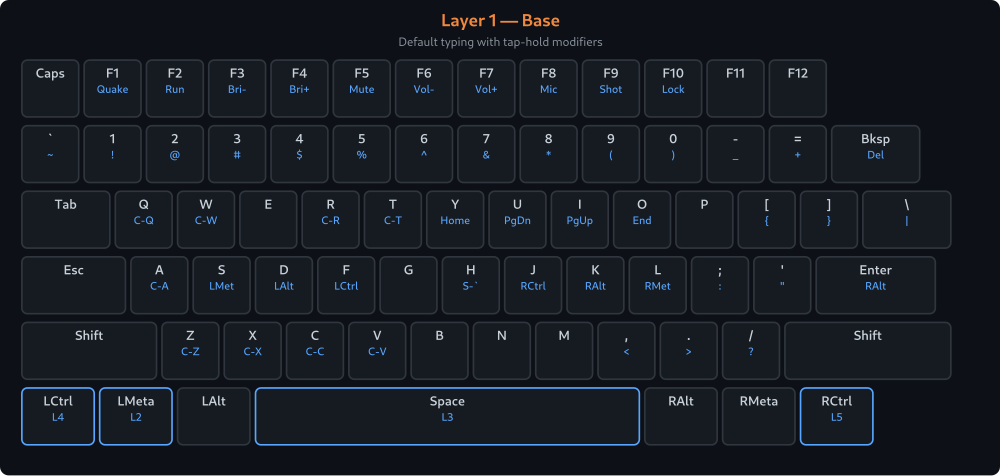
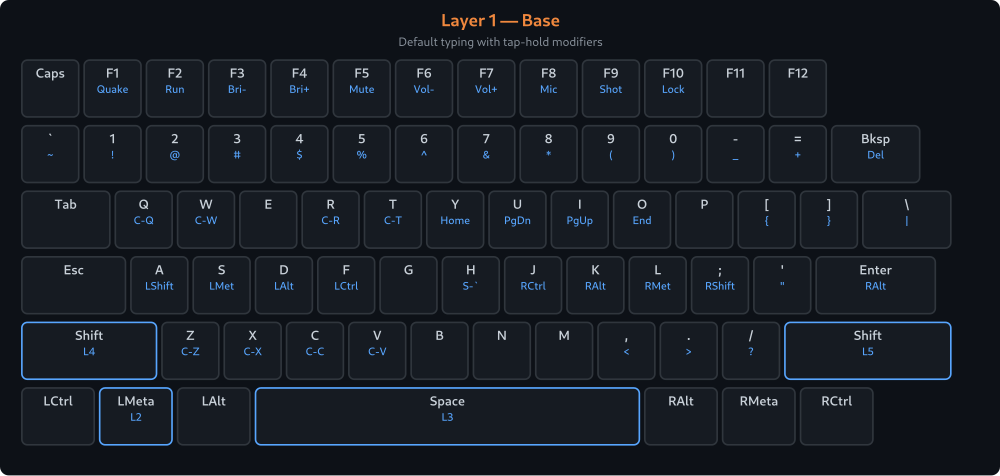
docs: sync with latest kanata_gnome.kbd - layer triggers now Left/Right Shift, A=Left Shift, ;=Right Shift

diff --git a/generate_layer_svgs.py b/generate_layer_svgs.py
@@ -187,21 +187,21 @@ layer1_keys = [
     {"key": "i", "tap": "I", "hold": "PgUp"}, {"key": "o", "tap": "O", "hold": "End"}, {"key": "p", "tap": "P"},
     {"key": "[", "tap": "[", "hold": "{"}, {"key": "]", "tap": "]", "hold": "}"}, {"key": "\\", "tap": "\\", "hold": "|"},
 
-    {"key": "caps", "tap": "Esc"}, {"key": "a", "tap": "A", "hold": "C-A"}, {"key": "s", "tap": "S", "hold": "LMet"},
+    {"key": "caps", "tap": "Esc"}, {"key": "a", "tap": "A", "hold": "LShift"}, {"key": "s", "tap": "S", "hold": "LMet"},
     {"key": "d", "tap": "D", "hold": "LAlt"}, {"key": "f", "tap": "F", "hold": "LCtrl"}, {"key": "g", "tap": "G"},
     {"key": "h", "tap": "H", "hold": "S-`"}, {"key": "j", "tap": "J", "hold": "RCtrl"},
     {"key": "k", "tap": "K", "hold": "RAlt"}, {"key": "l", "tap": "L", "hold": "RMet"},
-    {"key": ";", "tap": ";", "hold": ":"}, {"key": "'", "tap": "'", "hold": '"'}, {"key": "ret", "tap": "Enter", "hold": "RAlt"},
+    {"key": ";", "tap": ";", "hold": "RShift"}, {"key": "'", "tap": "'", "hold": '"'}, {"key": "ret", "tap": "Enter", "hold": "RAlt"},
 
-    {"key": "lsft", "tap": "Shift"}, {"key": "z", "tap": "Z", "hold": "C-Z"}, {"key": "x", "tap": "X", "hold": "C-X"},
+    {"key": "lsft", "tap": "Shift", "hold": "L4", "active": True}, {"key": "z", "tap": "Z", "hold": "C-Z"}, {"key": "x", "tap": "X", "hold": "C-X"},
     {"key": "c", "tap": "C", "hold": "C-C"}, {"key": "v", "tap": "V", "hold": "C-V"}, {"key": "b", "tap": "B"},
     {"key": "n", "tap": "N"}, {"key": "m", "tap": "M"},
     {"key": ",", "tap": ",", "hold": "<"}, {"key": ".", "tap": ".", "hold": ">"}, {"key": "/", "tap": "/", "hold": "?"},
-    {"key": "rsft", "tap": "Shift"},
+    {"key": "rsft", "tap": "Shift", "hold": "L5", "active": True},
 
-    {"key": "lctl", "tap": "LCtrl", "hold": "L4", "active": True}, {"key": "lmet", "tap": "LMeta", "hold": "L2", "active": True},
+    {"key": "lctl", "tap": "LCtrl"}, {"key": "lmet", "tap": "LMeta", "hold": "L2", "active": True},
     {"key": "lalt", "tap": "LAlt"}, {"key": "spc", "tap": "Space", "hold": "L3", "active": True},
-    {"key": "ralt", "tap": "RAlt"}, {"key": "rmet", "tap": "RMeta"}, {"key": "rctl", "tap": "RCtrl", "hold": "L5", "active": True},
+    {"key": "ralt", "tap": "RAlt"}, {"key": "rmet", "tap": "RMeta"}, {"key": "rctl", "tap": "RCtrl"},
 ]
 
 # Layer 2 — Window/Workspace (trigger: hold LMeta)
@@ -348,7 +348,7 @@ layer5_keys = [
 
 def generate_all():
     layers = [
-        ("layer1_base.svg", "Layer 1 — Base", "Default typing with tap-hold modifiers", layer1_keys, {"lctl", "lmet", "spc", "rctl"}),
+        ("layer1_base.svg", "Layer 1 — Base", "Default typing with tap-hold modifiers", layer1_keys, {"lsft", "lmet", "spc", "rsft"}),
         ("layer2_window.svg", "Layer 2 — Window/Workspace", "Hold Left Meta (S key) to activate", layer2_keys, set()),
         ("layer3_symbols.svg", "Layer 3 — Symbols", "Hold Spacebar to activate", layer3_keys, set()),
         ("layer4_editing.svg", "Layer 4 — Editing", "Hold Left Ctrl to activate", layer4_keys, set()),

diff --git a/README.md b/README.md
@@ -47,8 +47,8 @@ The configuration is organized into five layers. Four are accessed via tap-hold 
 | **Layer 1** | Base | Default | Typing with tap-hold modifiers and smart symbol keys |
 | **Layer 2** | Window/Workspace | Hold **Left Meta** | GNOME window tiling, workspace switching, kitty tabs |
 | **Layer 3** | Symbols | Hold **Spacebar** | Direct access to programming symbols without Shift |
-| **Layer 4** | Editing | Hold **Left Ctrl** | Arrow keys, text deletion, mouse wheel emulation |
-| **Layer 5** | Numbers | Hold **Right Ctrl** | Numpad-style number entry on the left hand |
+| **Layer 4** | Editing | Hold **Left Shift** | Arrow keys, text deletion, mouse wheel emulation |
+| **Layer 5** | Numbers | Hold **Right Shift** | Numpad-style number entry on the left hand |
 
 ```
 ┌─────────────────────────────────────────────────────────────────┐
@@ -74,7 +74,7 @@ The home row acts as modifiers when held, letters when tapped:
 
 | Key | Tap | Hold |
 |-----|-----|------|
-| `A` | `a` | `Ctrl+A` (select all) |
+| `A` | `a` | Left Shift |
 | `S` | `s` | Left Meta (Super) |
 | `D` | `d` | Left Alt |
 | `F` | `f` | Left Ctrl |
@@ -82,6 +82,7 @@ The home row acts as modifiers when held, letters when tapped:
 | `J` | `j` | Right Ctrl |
 | `K` | `k` | Right Alt |
 | `L` | `l` | Right Meta |
+| `;` | `;` | Right Shift |
 
 ### Smart Number Row
 
@@ -267,7 +268,7 @@ Hold **Spacebar** to activate. Outputs programming symbols directly. This layer 
 
 ![Layer 4 — Editing](assets/layer4_editing.png)
 
-Hold **Left Ctrl** to activate.
+Hold **Left Shift** to activate.
 
 | Key | Action |
 |-----|--------|
@@ -282,7 +283,7 @@ Hold **Left Ctrl** to activate.
 
 ![Layer 5 — Numbers](assets/layer5_numbers.png)
 
-Hold **Right Ctrl** to activate. Places a numpad under the left hand. Ideal for quick numeric entry without moving the right hand from the mouse.
+Hold **Right Shift** to activate. Places a numpad under the left hand. Ideal for quick numeric entry without moving the right hand from the mouse.
 
 | Key | Output |
 |-----|--------|
